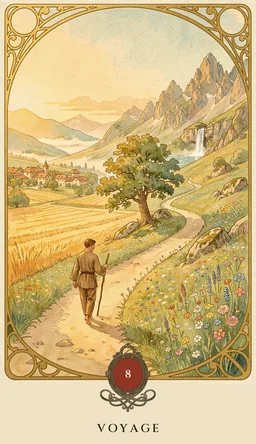
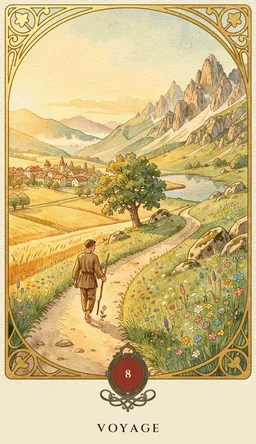
Huit de Feu · Voyage : le lac remplace la cascade
Même graine et même prompt que la carte validée (778826, ancre de style
comprise), avec une seule modification : la cascade devient un lac à la rive
irrégulière. La première tentative avait perdu l'ancre Mucha en recopiant le
prompt du script d'origine — d'où une allure hyper réaliste — et ajouté un
LoRA que la production n'utilisait pas ; les deux sont corrigés.

Textes : le « comprendre » de Ta Trame et le détail de la fiche Tarot ne
parlent plus de cascade. Comprendre 128 mots, conforme, sans chevauchement.

diff --git a/tarot/app.py b/tarot/app.py
@@ -254,7 +254,7 @@ def visage(id_carte):
 # Vignettes (400 px, WebP — outils/generer_vignettes.py) : dans les cases du
 # tirage, le mur du choix et les liens. La face entière reste pour le plein
 # écran et le récit. Monter le numéro après avoir régénéré les vignettes.
-VERSION_VIGNETTES = 6
+VERSION_VIGNETTES = 7
 
 
 def moyenne(id_carte):
